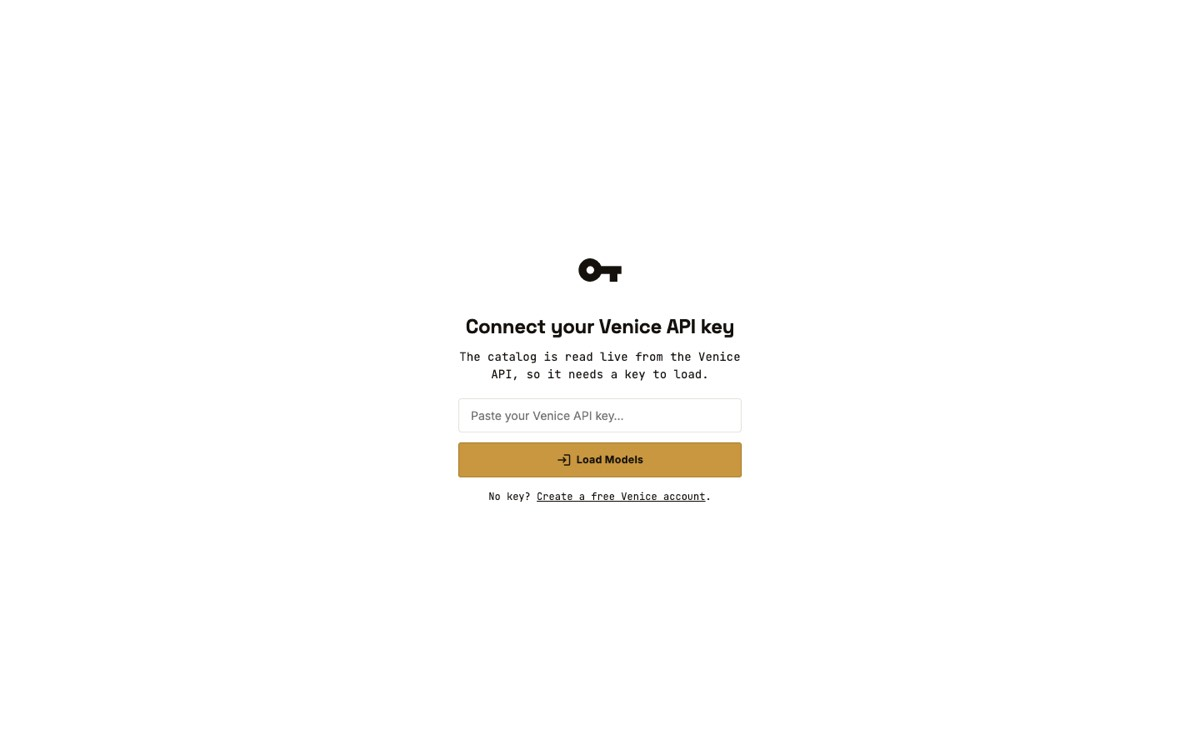
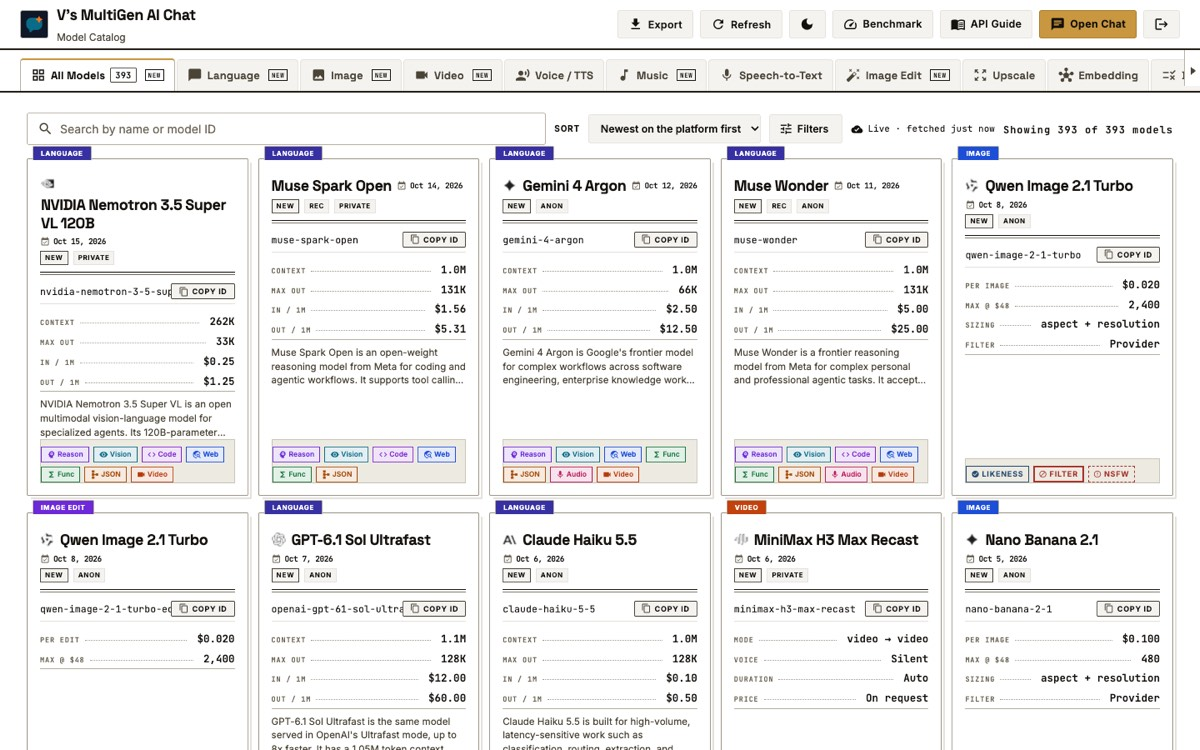
add Netlify Era: 38 more sites with live screenshots (86 total)

Changed region(s): [[0.0, 0.0, 1.0, 1.0], [0.8633, 0.4293, 0.8942, 0.46]]

diff --git a/index.html b/index.html
@@ -114,7 +114,7 @@ footer .pulse{display:inline-block;width:8px;height:8px;border-radius:50%;backgr
   <div class="stats">
     <div class="stat"><b data-count="100">0</b><span>GitHub Repos</span></div>
     <div class="stat"><b data-count="86">0</b><span>Railway Projects</span></div>
-    <div class="stat"><b data-count="50">0</b><span>Live Deployments</span></div>
+    <div class="stat"><b data-count="130">0</b><span>Live Deployments</span></div>
     <div class="stat"><b data-count="18">0</b><span>Months of Building</span></div>
   </div>
   <div class="scroll-hint">SCROLL ▼</div>
@@ -144,7 +144,7 @@ footer .pulse{display:inline-block;width:8px;height:8px;border-radius:50%;backgr
 </section>
 
 <div class="strip rv">
-  <div class="big" data-count="50">0</div>
+  <div class="big" data-count="90">0</div>
   <div style="font-family:var(--mono);letter-spacing:.3em;color:var(--dim);font-size:12px;text-transform:uppercase;margin-top:8px">apps live right now — scroll through them all</div>
 </div>
 
@@ -152,6 +152,12 @@ footer .pulse{display:inline-block;width:8px;height:8px;border-radius:50%;backgr
   <h2 class="rv">The Fleet.</h2>
   <p class="lede rv">Every live deployment, screenshotted this week. Click any card to open the real app. Screenshots render lazy and reveal on scroll.</p>
   <div class="grid" id="grid"></div>
+</section>
+
+<section class="section" id="netlify">
+  <h2 class="rv">The Netlify Era.</h2>
+  <p class="lede rv">Before Railway, everything shipped to Netlify — the first eighteen experiments that proved the method. Medical Affairs tools, BYOK studios, podcastifiers, trial matchers, and family microsites. Every card opens the live site.</p>
+  <div class="grid" id="grid2"></div>
 </section>
 
 <footer class="rv">

diff --git a/app.js b/app.js
@@ -109,6 +109,21 @@ fetch('projects.json').then(r=>r.json()).then(data=>{
     grid.appendChild(a);
     io.observe(a);
   });
+  const grid2 = document.getElementById('grid2');
+  if (grid2 && data.netlify_projects) {
+    data.netlify_projects.forEach((p, i)=>{
+      const a = document.createElement('a');
+      a.className = 'proj rv';
+      a.href = p.url; a.target = '_blank'; a.rel = 'noopener';
+      a.style.transitionDelay = (i%3*70)+'ms';
+      const shot = p.shot
+        ? `<div class="shot"><img loading="lazy" src="${p.shot}" alt="${p.name} screenshot" onerror="this.parentElement.classList.add('noimg');this.remove()"></div>`
+        : `<div class="shot noimg"></div>`;
+      a.innerHTML = `${shot}<div class="body"><h3>${p.name}</h3><p>${p.desc}</p><div class="tags">${(p.tags||[]).map(t=>`<span class="tag">${t}</span>`).join('')}</div></div><div class="go">↗</div>`;
+      grid2.appendChild(a);
+      io.observe(a);
+    });
+  }
 }).catch(err=>console.error('grid load failed', err));
 
 /* ---------- hero text scramble on load ---------- */
